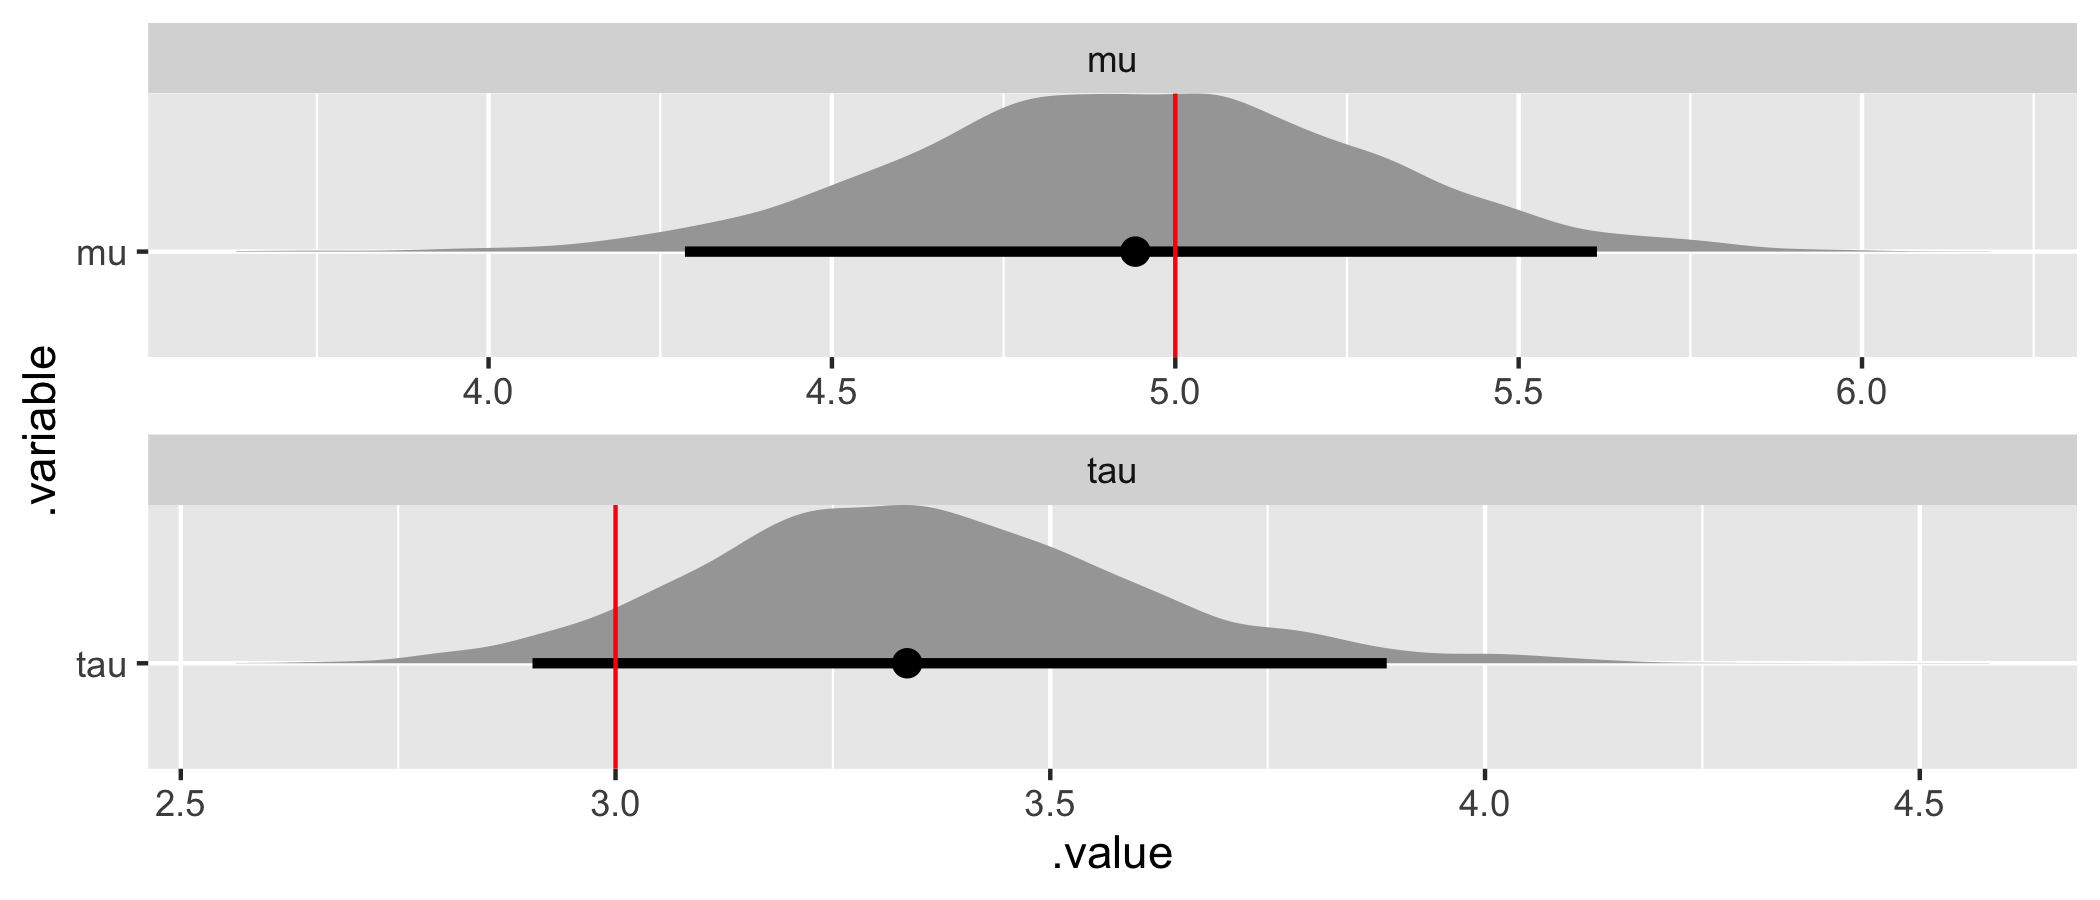
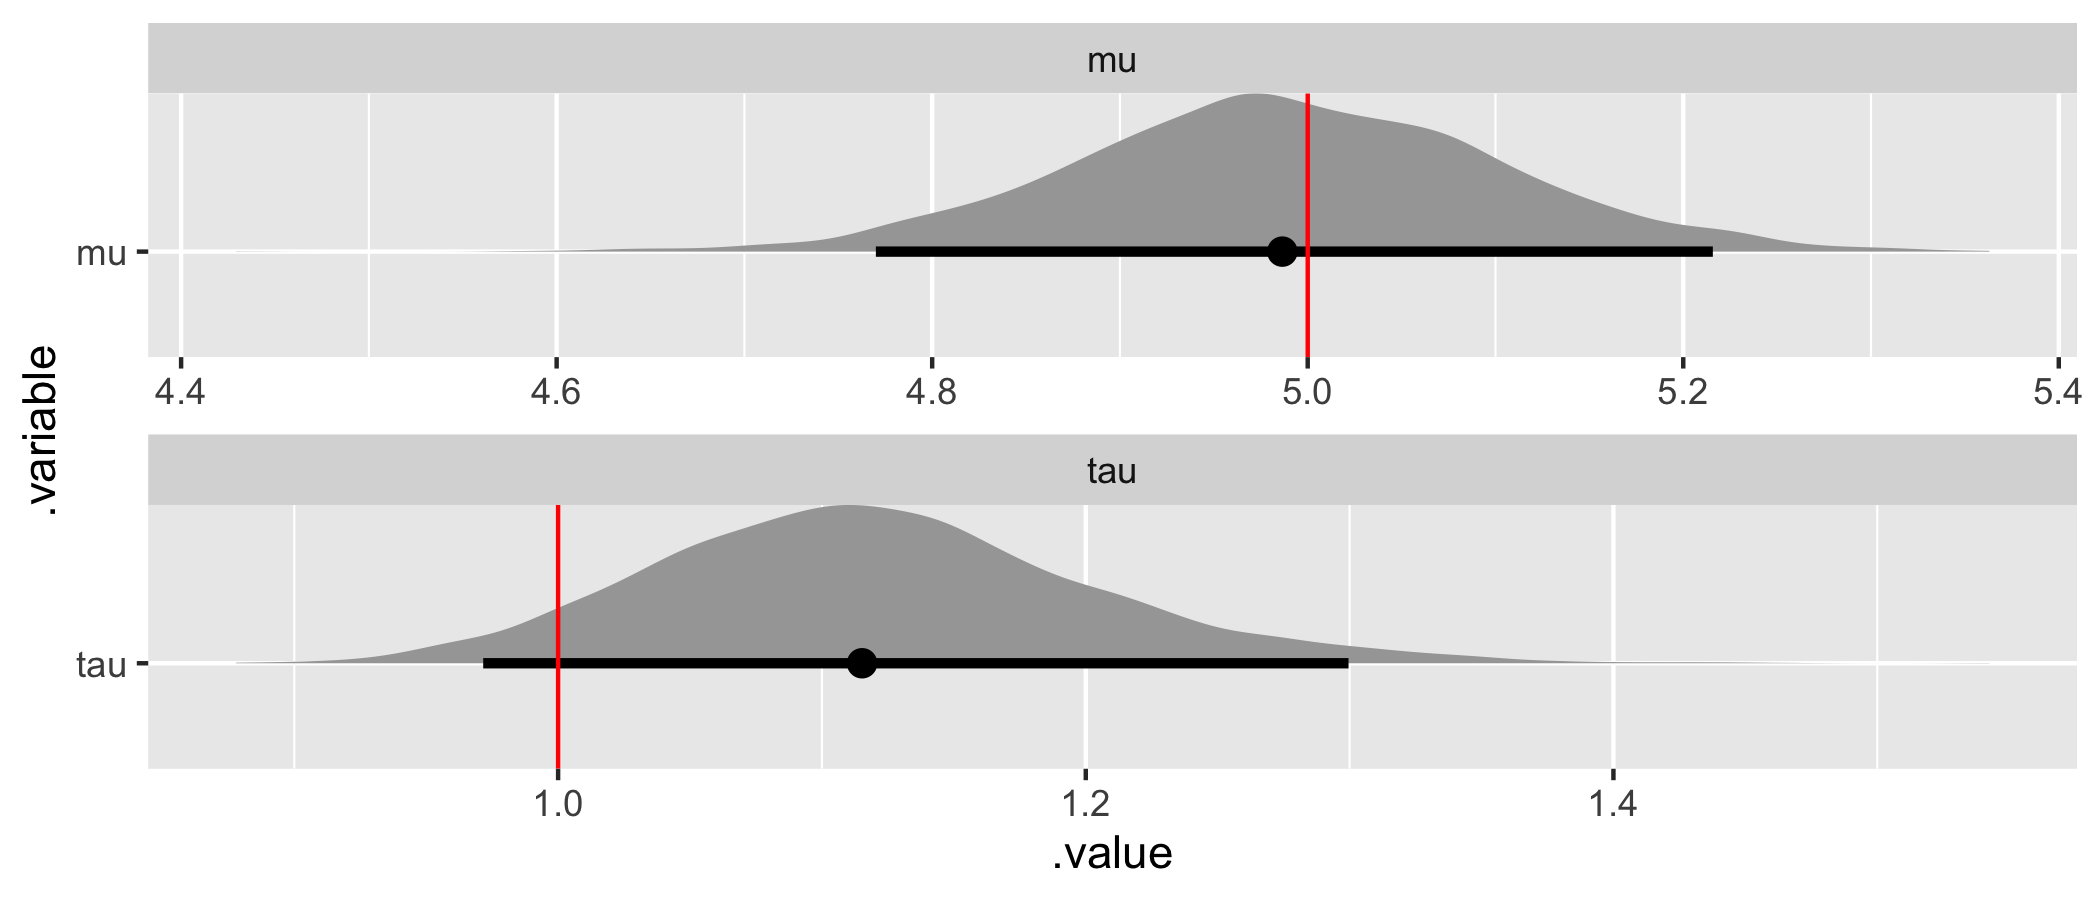
Recast prior on tau ~ cauchy(0, 2.5), move toward non-centered parameterization

diff --git a/content/post/stan-hierarchical/index.html b/content/post/stan-hierarchical/index.html
@@ -18,27 +18,27 @@ Tags:
 
 <p>Bayesian inference provides an intuitive and self-consistent approach to statistical modeling. In short, you have beliefs about unobserved values (e.g., the impact of price on customer satisfaction) and you use data to update those beliefs. The barrier to using Bayesian inference in practice has never been this intuition – it’s been the <a href="https://arxiv.org/abs/1701.02434">required computation</a>. There has been a great deal of progress on this front, with <a href="https://mc-stan.org">Stan</a> arguably providing the best solution.</p>
 <p>Stan is a probabilistic programming language that provides a general-purpose sampler using Hamiltonian Monte Carlo. In other words, Stan automates the required computation (for many models), allowing you to conduct Bayesian inference by just focusing on model building. This is especially powerful when it comes to utilizing the mainstay of Bayesian inference: hierarchical models.</p>
-<p>The goal of this post is to provide a gentle introduction to building hierarchical models using Stan and R. We’ll start with a very brief introduction to Stan and build in complexity from there. For a general introduction to Bayesian inference and Stan, see:</p>
+<p>The goal of this post is to provide a bridge to building hierarchical models using Stan and R. We’ll start with a very brief introduction to Stan and build in complexity from there. This post does not provide a general introduction to Bayesian inference or Stan. See:</p>
 <ul>
 <li>Introduction to Bayesian inference</li>
 <li>Introduction to Stan</li>
 </ul>
 <div id="simple-regression" class="section level2">
 <h2>Simple regression</h2>
-<p>Let’s start with a simple (non-hierarchical) regression. In a Stan script, which <a href="https://blog.rstudio.com/2018/10/16/rstudio-1-2-preview-stan/">has native support in RStudio</a>, first specify the <code>data</code> block.</p>
+<p>Let’s start with a simple (non-hierarchical) regression. In a Stan script, which <a href="https://blog.rstudio.com/2018/10/16/rstudio-1-2-preview-stan/">has native support in RStudio</a>, we specify the three required blocks for a Stan model: <code>data</code>; <code>parameters</code>, the unobserved values we want to estimate; and <code>model</code>, both the prior and likelihood.</p>
 <pre class="stan"><code>// Index value and observations.
 data {
-  int&lt;lower = 1&gt; N;       // Number of individuals.
-  vector[N] y;            // Vector of observations.
-}</code></pre>
-<p>Next, we specify the <code>parameters</code>, the unobserved values, we want to estimate.</p>
-<pre class="stan"><code>// Parameters.
+  int&lt;lower = 1&gt; N;  // Number of individuals.
+  vector[N] y;       // Vector of observations.
+}
+
+// Parameters.
 parameters {
-  real mu;                // Mean of the regression.
-  real&lt;lower=0&gt; tau;      // Variance of the regression.
-}</code></pre>
-<p>Finally, we specify the complete <code>model</code>, which includes both the prior and the likelihood.</p>
-<pre class="stan"><code>// Simple regression.
+  real mu;           // Mean of the regression.
+  real&lt;lower=0&gt; tau; // Variance of the regression.
+}
+
+// Simple regression.
 model {
   // Priors.
   mu ~ normal(0, 5);
@@ -47,24 +47,26 @@ model {
   // Likelihood.
   y ~ normal(mu, tau);
 }</code></pre>
-<p>Since, like all Bayesian models, this model is fully generative, we can also use Stan to generate data. To do this, we reorganize these three blocks into <code>data</code> (which now includes the true values of the parameters) and <code>generated quantities</code> blocks.</p>
+<p>Imagine this is a model of customer satisfaction where we have <code>N</code> individuals, the overall satisfaction <code>y</code> from each individual, and we are assuming that satisfaction <code>y</code> is distributed <code>normal</code>, with a single mean <code>mu</code> and variance <code>tau</code> to describe customer satisfaction in the population.</p>
+<p>Like all Bayesian models, this model is fully generative, so we can also use Stan to generate data according to some assumed parameter values and then use the generated data to test the model, including demonstrating parameter recovery. To do this, we reorganize these three blocks into <code>data</code> (which now includes the assumed parameter values) and <code>generated quantities</code> blocks.</p>
 <pre class="stan"><code>// Index and parameter values.
 data {
-  int&lt;lower = 1&gt; N;       // Number of observations.
-  real mu;                // Mean of the regression.
-  real&lt;lower=0&gt; tau;      // Variance of the regression.
+  int&lt;lower = 1&gt; N;  // Number of observations.
+  real mu;           // Mean of the regression.
+  real&lt;lower=0&gt; tau; // Variance of the regression.
 }
 
 // Generate data according to the simple regression.
 generated quantities {
-  vector[N] y;            // Vector of observations.
+  vector[N] y;       // Vector of observations.
 
   // Generate data.
   for (n in 1:N) {
     y[n] = normal_rng(mu, tau);
   }
 }</code></pre>
-<p>Now in an R script, let’s load the necessary packages, allow Stan to use as many cores as we have available, and generate data according to our simple regression.</p>
+<p>The for loop over <code>y</code> in the <code>generated quantities</code> block emphasizes the strong assumption of this non-hierarchical model that a single mean <code>mu</code> and variance <code>tau</code> describe customer satisfaction in the population. We’ll return to this shortly.</p>
+<p>In an R script, let’s load the necessary packages, allow Stan to use as many cores as we have available, specify assumed parameter values, and generate data according to our simple regression.</p>
 <pre class="r"><code># Load packages.
 library(tidyverse)
 library(rstan)
@@ -76,9 +78,9 @@ options(mc.cores = parallel::detectCores())
 
 # Specify data and parameter values.
 sim_values &lt;- list(
-  N = 100,                            # Number of observations.
-  mu = 5,                             # Mean of the regression.
-  tau = 3                             # Variance of the regression.
+  N = 100, # Number of observations.
+  mu = 5,  # Mean of the regression.
+  tau = 3  # Variance of the regression.
 )
 
 # Generate data.
@@ -89,26 +91,25 @@ sim_data &lt;- stan(
   chains = 1,
   seed = 42,
   algorithm = &quot;Fixed_param&quot;
-)</code></pre>
-<p>To demonstrate that our simple regression works, we simply specify the data inputs as a list, call the model from R, and Stan does all the heavy lifting for us.</p>
-<pre class="r"><code># Extract simulated data.
-sim_y &lt;- extract(sim_data)$y
+)
 
-# Specify data.
+# Extract simulated data.
+sim_y &lt;- extract(sim_data)$y</code></pre>
+<p>To test our model, we simply specify the generated data inputs as a list, call the regression model from R, and Stan does all the heavy lifting for us.</p>
+<pre class="r"><code># Specify data.
 data &lt;- list(
-  N = length(sim_y),                 # Number of individuals.
-  y = as.vector(sim_y)               # Vector of observations.
+  N = length(sim_y),   # Number of individuals.
+  y = as.vector(sim_y) # Vector of observations.
 )
 
 # Calibrate the model.
 fit &lt;- stan(
   file = here::here(&quot;content&quot;, &quot;post&quot;, &quot;stan-hierarchical&quot;, &quot;code&quot;, &quot;regression.stan&quot;),
   data = data,
-  iter = 4000,
-  thin = 2,
   seed = 42
 )</code></pre>
-<p>We can check diagnostics, one of the best services provided by using Hamiltonian Monte Carlo.</p>
+<p>Note that we aren’t calling <code>generate_data.stan</code>, we’re calling <code>regression.stan</code> (the model with the three required blocks).</p>
+<p>Once the model has finished running, we can check diagnostics, including checking for divergences, which are unique to using Hamiltonian Monte Carlo.</p>
 <pre class="r"><code># Diagnostics.
 source(here::here(&quot;content&quot;, &quot;post&quot;, &quot;stan-hierarchical&quot;, &quot;code&quot;, &quot;stan_utility.R&quot;))
 check_all_diagnostics(fit)</code></pre>
@@ -117,7 +118,7 @@ check_all_diagnostics(fit)</code></pre>
 [1] &quot;0 of 4000 iterations ended with a divergence (0%)&quot;
 [1] &quot;0 of 4000 iterations saturated the maximum tree depth of 10 (0%)&quot;
 [1] &quot;E-FMI indicated no pathological behavior&quot;</code></pre>
-<p>With the model performing well, we can both check the trace plots, be thorough, and plot the marginal posteriors for our parameter values to confirm that the true values used when generating data are within the 95% credible intervals.</p>
+<p>The diagnostics check out. We can also check the trace plots and, to be thorough, plot the marginal posteriors for our parameter values to confirm that the assumed parameter values used when generating data are within the 95% credible intervals.</p>
 <pre class="r"><code># Check trace plots.
 fit %&gt;%
   mcmc_trace(
@@ -126,6 +127,7 @@ fit %&gt;%
     facet_args = list(nrow = 2, labeller = label_parsed)
   )</code></pre>
 <p><img src="figures/mcmc_trace.png" /></p>
+<p>As suggested by the <code>Rhat</code> diagnostic, we have good mixing and clear convergence for both of our model parameters.</p>
 <pre class="r"><code># Recover parameter values.
 par_values &lt;- tibble(
   .variable = c(&quot;mu&quot;, &quot;tau&quot;),
@@ -143,15 +145,12 @@ fit %&gt;%
   ) +
   geom_vline(aes(xintercept = values), par_values, color = &quot;red&quot;)</code></pre>
 <p><img src="figures/marginals.png" /></p>
+<p>The assumed parameter values have been recovered by the model! In summary, we’ve generated data and demonstrated that the model is working as intended.</p>
 </div>
 <div id="simple-hierarchical-regression" class="section level2">
 <h2>Simple hierarchical regression</h2>
-<ul>
-<li>Possible follow-up to the introductory materials provided in Statistical Rethinking?</li>
-<li>Collecting and piecing together various resources on hierarchical modeling in Stan.</li>
-<li>Preparation/follow-up for StanCon workshop.</li>
-</ul>
-<p>Hierarchical models account for structure in our data. If we are estimating the preferences of consumers, we know that consumers preferences are different. This heterogeneity makes the use of a standard linear model incredibly problematic, since that model assumes that preferences are shared across consumers. Just as hierarchical models account for consumer heterogeneity in models of preference, they similarly account for existing hierarchies in other applications and should be considered the default model rather than aggregate models.</p>
+<p>So why move to a hierarchical model? A hierarchical model accounts for structure in our data.</p>
+<p>If we are estimating the preferences of consumers, we know that consumers preferences are different. This heterogeneity makes the use of a standard linear model incredibly problematic, since that model assumes that preferences are shared across consumers. Just as hierarchical models account for consumer heterogeneity in models of preference, they similarly account for existing hierarchies in other applications and should be considered the default model rather than aggregate models.</p>
 <p>Hierarchical models should be our default approach in most applications and Stan removes the barriers to entry for Bayesian computation. However, there are behaviors inherent to hierarchical models that make them somewhat problematic to implement in Stan. This can provide a frustrating mismatch: Providing a way into Bayesian inference only to pull it away again. The motivation for this post is to provide a gentle introduction into implementing hierarchical models in Stan.</p>
 </div>
 <div id="benefits" class="section level2">
